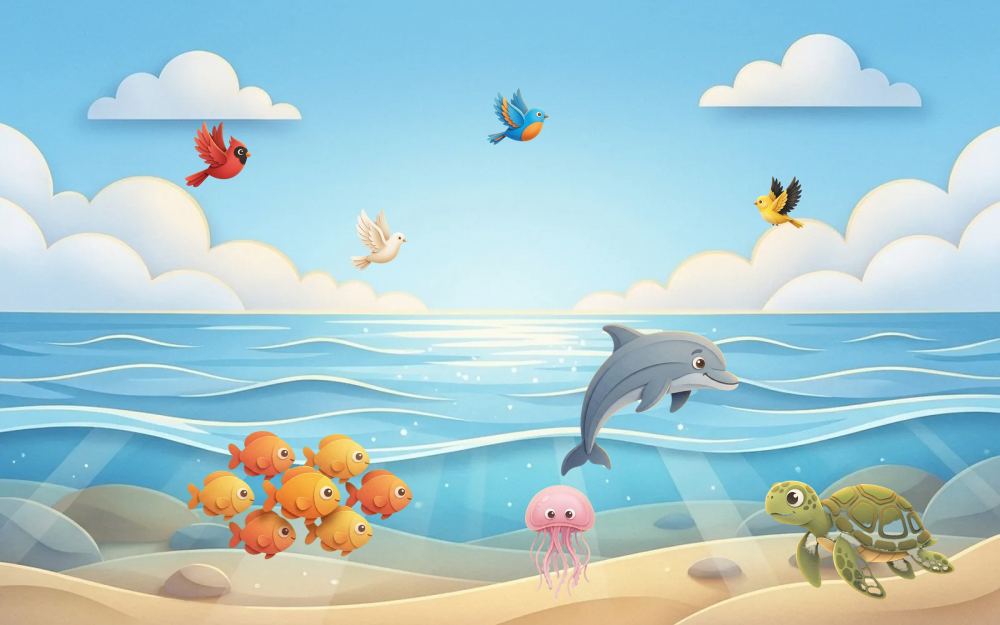
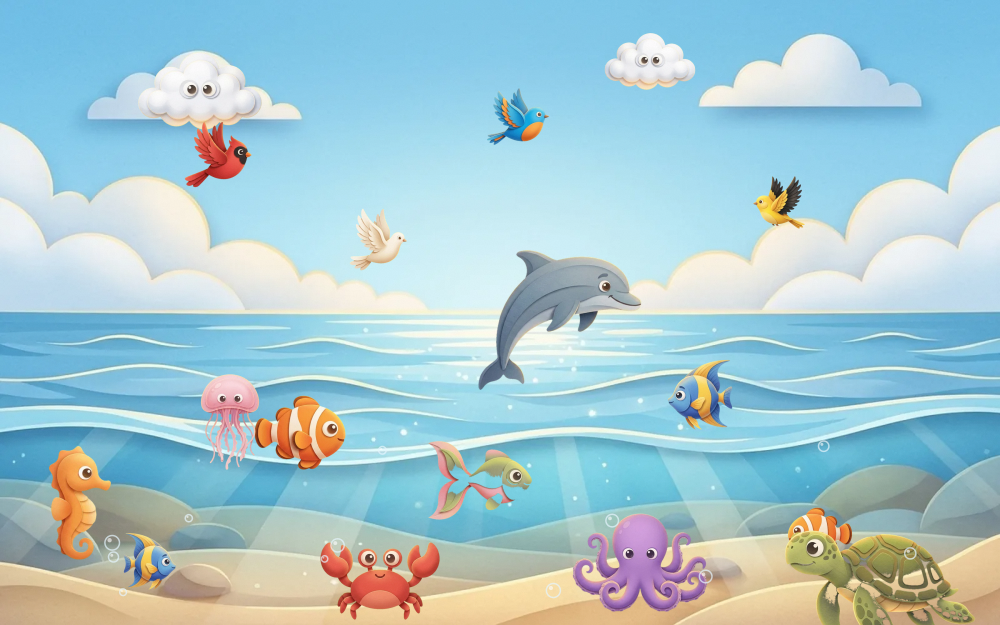
Creatures page: fish swim across singly, the dolphin leaps, clouds drift, more sea life and bubbles
Three single fish, a seahorse, a crab and an octopus replace the fish
school; each fish crosses the water on its own a-swim-across path, flipped
ones the other way. The dolphin leaps in an arc (a-leap), two cloud cutouts
drift in front of the painted sky, and bubbles rise through the water.
gen.py now retries an empty model response instead of crashing.

diff --git a/src/scenes/creation.tsx b/src/scenes/creation.tsx
@@ -1,4 +1,5 @@
 import { HolyGlow, Sparkle, Stars } from "../art/base";
+import { rand } from "../art/palette";
 import { Grain, Motes, SoftShadow } from "../art/v2/effects";
 import { Backdrop, Eyelids, Flipbook, Layer, Part } from "../art/raster";
 import lightBg from "../assets/scenes/creation/light/bg.webp";
@@ -28,8 +29,13 @@ import moonImg from "../assets/scenes/creation/lights/moon.webp";
 import creaturesLayers from "../assets/scenes/creation/creatures/layers.json";
 import creaturesBg from "../assets/scenes/creation/creatures/bg.webp";
 import dolphinImg from "../assets/scenes/creation/creatures/dolphin.webp";
+import fishOrange from "../assets/scenes/creation/creatures/fish-orange.webp";
+import fishBlue from "../assets/scenes/creation/creatures/fish-blue.webp";
+import fishGreen from "../assets/scenes/creation/creatures/fish-green.webp";
+import seahorseImg from "../assets/scenes/creation/creatures/seahorse.webp";
+import crabImg from "../assets/scenes/creation/creatures/crab.webp";
+import octopusImg from "../assets/scenes/creation/creatures/octopus.webp";
 import swLayers from "../assets/scenes/jonah/swallowed/layers.json";
-import fishSchool from "../assets/scenes/jonah/swallowed/fish-school.webp";
 import turtleImg from "../assets/scenes/jonah/swallowed/turtle.webp";
 import jellyImg from "../assets/scenes/jonah/swallowed/jellyfish.webp";
 import praysLayers from "../assets/scenes/daniel/prays/layers.json";
@@ -152,23 +158,43 @@ export function SunMoonStars({ found }: SceneArtProps) {
 export function BirdsAndFish() {
   const L = creaturesLayers.cutouts;
   const J = swLayers.cutouts;
+  const S = skyLayers.cutouts;
+  const fish = (src: string, key: keyof typeof L, x: number, y: number, s: number, delay: number, flip = false) => (
+    <Layer src={src} w={L[key].w} h={L[key].h} x={x} y={y} scale={s} flip={flip} className="a-swim-across" delay={delay} />
+  );
+  const bubbles = Array.from({ length: 12 }, (_, i) => {
+    const t = rand(31 + i);
+    return { x: 80 + t * 840, y: 420 + rand(60 + i) * 190, r: 2.5 + rand(90 + i) * 5, d: -t * 7 };
+  });
   return (
     <>
       <Backdrop src={creaturesBg} />
+      {/* clouds drift across the sky in front of the painted ones */}
+      <Layer src={skyCloud} w={S.cloud.w} h={S.cloud.h} x={200} y={130} scale={0.3} className="a-drift" delay={-25} />
+      <Layer src={skyCloud} w={S.cloud.w} h={S.cloud.h} x={650} y={90} scale={0.22} className="a-drift" delay={-55} flip />
       <Bird kind="red" x={240} y={150} size={0.3} motion="a-fly" delay={0} />
       <Bird kind="blue" x={540} y={110} size={0.26} motion="a-flutter" delay={-4} />
       <Bird kind="gold" x={760} y={200} size={0.24} motion="a-flutter" delay={-8} flip />
       <Bird kind="dove" x={400} y={240} size={0.26} motion="a-flutter" delay={-2} />
-      <g transform="translate(650 400)">
-        <g className="a-float">
-          <image href={dolphinImg} x={-L.dolphin.w * 0.24} y={-L.dolphin.h * 0.24} width={L.dolphin.w * 0.48} height={L.dolphin.h * 0.48} />
-          <g transform={`translate(${-L.dolphin.w * 0.24} ${-L.dolphin.h * 0.24}) scale(0.48)`}>
+      {/* the dolphin leaps in an arc; at rest it sits at the top of the leap */}
+      <g transform="translate(560 320)">
+        <g className="a-leap">
+          <image href={dolphinImg} x={-L.dolphin.w * 0.22} y={-L.dolphin.h * 0.22} width={L.dolphin.w * 0.44} height={L.dolphin.h * 0.44} />
+          <g transform={`translate(${-L.dolphin.w * 0.22} ${-L.dolphin.h * 0.22}) scale(0.44)`}>
             <Eyelids {...EYES.dolphin} w={0} h={0} delay={1.8} />
           </g>
         </g>
       </g>
-      <Layer src={fishSchool} w={J["fish-school"].w} h={J["fish-school"].h} x={300} y={560} scale={0.5} className="a-swim" delay={-1} />
-      <g transform="translate(860 540)">
+      {/* each fish crosses on its own; flipped ones go the other way */}
+      {fish(fishOrange, "fish-orange", 300, 470, 0.34, -3)}
+      {fish(fishBlue, "fish-blue", 700, 430, 0.32, -12, true)}
+      {fish(fishGreen, "fish-green", 480, 520, 0.36, -7)}
+      {fish(fishOrange, "fish-orange", 820, 560, 0.24, -17, true)}
+      {fish(fishBlue, "fish-blue", 150, 590, 0.26, -20)}
+      <Layer src={seahorseImg} w={L.seahorse.w} h={L.seahorse.h} x={80} y={560} scale={0.44} className="a-float" delay={-1} />
+      <Layer src={octopusImg} w={L.octopus.w} h={L.octopus.h} x={640} y={612} scale={0.38} className="a-float" delay={-4} />
+      <Layer src={crabImg} w={L.crab.w} h={L.crab.h} x={380} y={620} scale={0.3} className="a-swim" delay={-2} />
+      <g transform="translate(880 590)">
         <g className="a-swim-slow">
           <image href={turtleImg} x={-J.turtle.w * 0.2} y={-J.turtle.h * 0.2} width={J.turtle.w * 0.4} height={J.turtle.h * 0.4} />
           <g transform={`translate(${-J.turtle.w * 0.2} ${-J.turtle.h * 0.2}) scale(0.4)`}>
@@ -176,7 +202,18 @@ export function BirdsAndFish() {
           </g>
         </g>
       </g>
-      <Layer src={jellyImg} w={J.jellyfish.w} h={J.jellyfish.h} x={560} y={600} scale={0.36} className="a-float" delay={-3} />
+      <Layer src={jellyImg} w={J.jellyfish.w} h={J.jellyfish.h} x={230} y={470} scale={0.3} className="a-float" delay={-3} />
+      {/* bubbles rise through the water; each is drawn where it starts */}
+      <g pointerEvents="none">
+        {bubbles.map((b, i) => (
+          <g key={i} transform={`translate(${b.x.toFixed(1)} ${b.y.toFixed(1)})`}>
+            <g className="a-bubble" style={{ animationDelay: `${b.d.toFixed(2)}s` }}>
+              <circle r={b.r.toFixed(1)} fill="none" stroke="#e6f6ff" strokeWidth="1.5" opacity="0.7" />
+              <circle r={(b.r * 0.3).toFixed(1)} cx={(-b.r * 0.35).toFixed(1)} cy={(-b.r * 0.35).toFixed(1)} fill="#ffffff" opacity="0.6" />
+            </g>
+          </g>
+        ))}
+      </g>
       <Grain opacity={0.05} />
     </>
   );

diff --git a/src/styles/motion.css b/src/styles/motion.css
@@ -575,6 +575,58 @@ svg [class*=" a-"] {
 }
 
 /*
+ * A fish crossing the water on its own, with a gentle bob. Relative offsets,
+ * so the fish's own x is where it rests under Calm mode. Flip the outer group
+ * to send it the other way.
+ */
+@keyframes swim-across {
+  0% {
+    transform: translate(-520px, 0);
+  }
+  25% {
+    transform: translate(-240px, -14px);
+  }
+  50% {
+    transform: translate(40px, 6px);
+  }
+  75% {
+    transform: translate(320px, -10px);
+  }
+  100% {
+    transform: translate(620px, 0);
+  }
+}
+.a-swim-across {
+  animation: swim-across 22s linear infinite;
+}
+
+/* A dolphin's leap: up out of the water in an arc and back in, then a rest under the surface. */
+@keyframes leap {
+  0%,
+  100% {
+    transform: translate(-260px, 70px) rotate(-28deg);
+    opacity: 0;
+  }
+  8% {
+    opacity: 1;
+  }
+  50% {
+    transform: translate(0, -110px) rotate(0deg);
+    opacity: 1;
+  }
+  92% {
+    opacity: 1;
+  }
+  100% {
+    transform: translate(260px, 70px) rotate(28deg);
+    opacity: 0;
+  }
+}
+.a-leap {
+  animation: leap 5.5s ease-in-out infinite;
+}
+
+/*
  * Eyelids. Drawn with opacity="0" so eyes rest open; the lid only appears for
  * a moment near the end of each cycle. Calm mode drops the animation and the
  * attribute value keeps the eyes open.

diff --git a/src/data/stories/creation.ts b/src/data/stories/creation.ts
@@ -152,8 +152,8 @@ export const creation: Story = {
       hotspots: [
         {
           id: "fish",
-          x: 30,
-          y: 84,
+          x: 48,
+          y: 82,
           size: 22,
           label: "the fish",
           reward:

diff --git a/design/pipeline/gen.py b/design/pipeline/gen.py
@@ -45,15 +45,25 @@ def client() -> genai.Client:
 
 def generate(prompt: str, refs: list[Path], out: Path, aspect: str = "16:9", size: str = "1K") -> Path:
     contents: list = [f"{STYLE_LINE}\n\n{prompt}"] + [Image.open(r) for r in refs]
-    response = client().models.generate_content(
-        model=MODEL,
-        contents=contents,
-        config=types.GenerateContentConfig(
-            response_modalities=["TEXT", "IMAGE"],
-            image_config=types.ImageConfig(aspect_ratio=aspect, image_size=size),
-        ),
-    )
-    for part in response.parts:
+    parts = None
+    for attempt in range(3):
+        response = client().models.generate_content(
+            model=MODEL,
+            contents=contents,
+            config=types.GenerateContentConfig(
+                response_modalities=["TEXT", "IMAGE"],
+                image_config=types.ImageConfig(aspect_ratio=aspect, image_size=size),
+            ),
+        )
+        parts = response.parts
+        if parts:
+            break
+        # An empty response (safety block or transient) has no parts; say why and retry.
+        reason = getattr(getattr(response, "candidates", [None])[0] if response.candidates else None, "finish_reason", None)
+        print(f"empty response for {out.name} (attempt {attempt + 1}, finish_reason={reason}); retrying")
+    if not parts:
+        sys.exit(f"no image returned for {out.name} after 3 attempts")
+    for part in parts:
         if part.inline_data:
             out.parent.mkdir(parents=True, exist_ok=True)
             # inline_data is JPEG/PNG bytes; decode with PIL so the file on

diff --git a/docs/evidence/2026-09-18-creation-story-raster/cycles.md b/docs/evidence/2026-09-18-creation-story-raster/cycles.md
@@ -7,3 +7,4 @@ Reference: design/concept-art/style-samples/6-blend-soft-shaded-cutout.jpg (styl
 | 00 | raw review | 14/14 accepted | raw-all.png | cloud and flowers came back with faces; kept, suits the audience |
 | 01 | all six | light P, sky-water F, land F, lights P, creatures P, people F | — | clouds half off the left edge; fruit tree oversized and cropped; Adam and Eve overlapped the giraffes and lions |
 | 02 | sky-water, land, people | all P | story-sheet.png, lids-forced-*.png | clouds at x 300/700; fruit tree 0.42; animals spread to the edges, people centred |
+| 03 | creatures (user review) | P | creatures-render.png | fish school replaced by five individual fish crossing on `a-swim-across` (flipped ones the other way); dolphin leaps on `a-leap`; two cloud cutouts drift; seahorse, crab, octopus added; 12 rising bubbles. fish-green regenerated once: first came on a white card |
